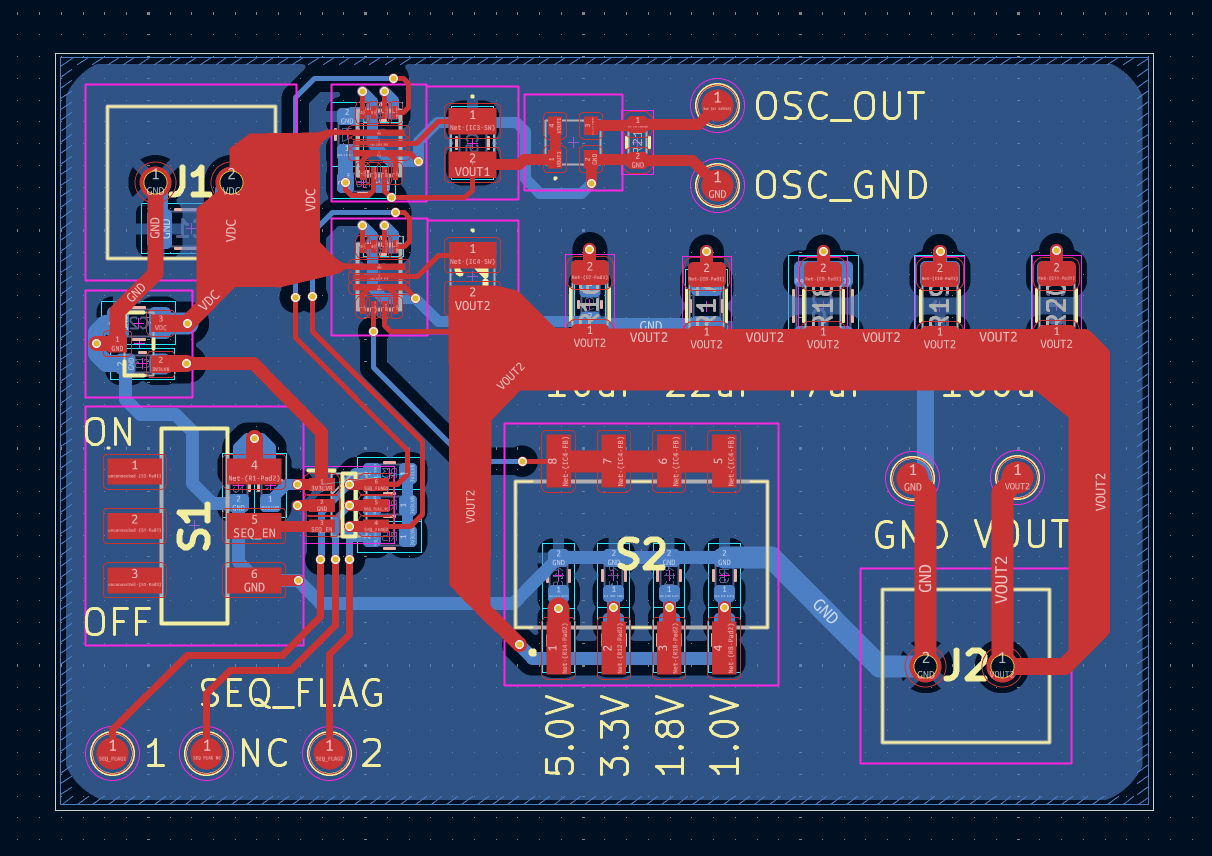
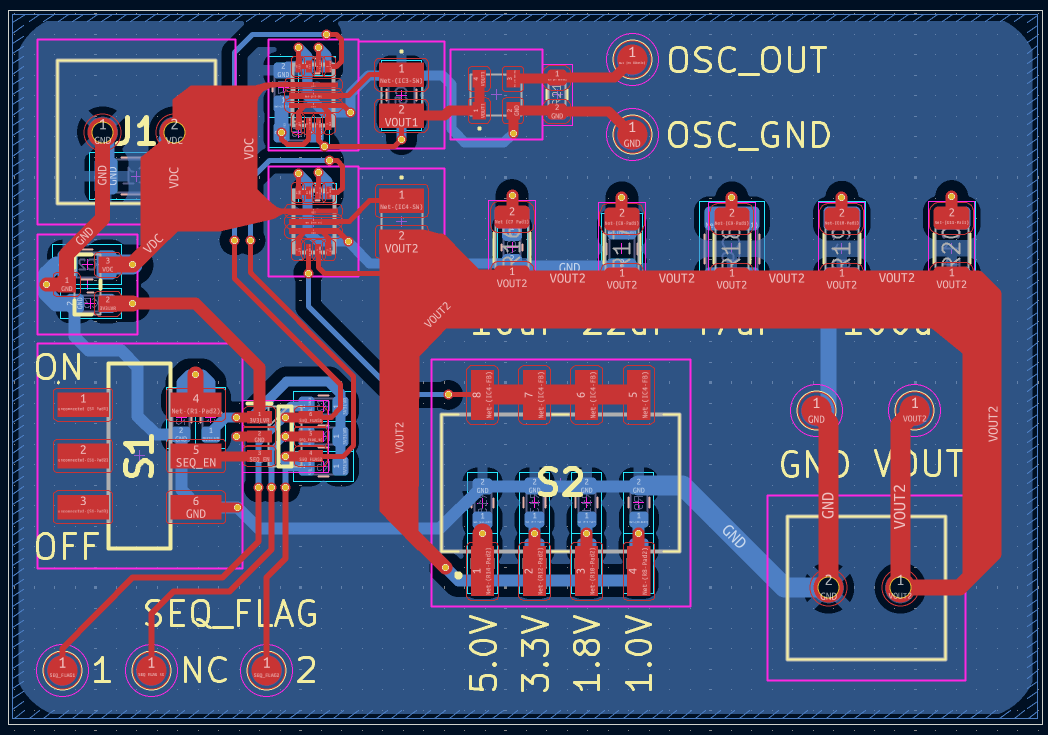
Update PCB design and cost information

diff --git a/README.md b/README.md
@@ -10,29 +10,45 @@ This simple project is for testing power rails and external oscillator to use th
     + different output voltages(1.0~5.0V) of buck converter
     + different load(resistive, ~1.5W consume)
 
-## 2. Architecture Diagram
-### 2.1 Module Diagram
+## 2. Directores
+|Directory|Description|
+|---|---|
+|calculation|files for calculation|
+|datasheet|datasheets of components|
+|diagrams|diagrams images|
+|eda_model|EDA model files for KiCAD|
+|kicad_proj|KiCAD project directory|
+|pcb|PCB images and gerber file|
+|readme_img|image for readme file|
+|schematic|schematic jpg and pdf file|
+
+## 3. Architecture Diagram
+### 3.1 Module Diagram
 <img src="./readme_img/001_module_diagram.PNG" width="70%" style="margin-left: auto; margin-right: auto; display: block;"/>
 
-### 2.2 Block Diagram
+### 3.2 Block Diagram
 <img src="./readme_img/002_block_diagram.PNG" width="70%" style="margin-left: auto; margin-right: auto; display: block;"/>
 
-### 2.3 Block Ports
+### 3.3 Ports Diagram
 <img src="./readme_img/003_block_ports.PNG" width="70%" style="margin-left: auto; margin-right: auto; display: block;"/>
 
-## 3. Circuit Schematic
-Footprints of resistors R16~20 will be used as solder jumper. Therefore, there is no actual component needed.
+## 4. Circuit Schematic
+Footprints of resistors R16~20 will be used as solder jumper.
 
 <img src="./schematic/schematic.jpg" width="90%"/>
 
+</br>
 Date of basis for price calculation : 2025.10.21. </br>
-Refer to <a href="./component_list.xlsx">component_list.xlsx</a> for details.
+Refer to <a href="./component_list.xlsx">component_list.xlsx</a> for details. </br>
+* Exclude PCB(USD$20.84/5pcs) and resistive load(USD$8.40).
 
 <img src="./readme_img/005_price_overview.png" width="40%"/>
 
-## 4. PCB Design
+</br>
+<b>Total: USD$27.203/pcs</b> (incldue PCB and resistive load)
+
+## 5. PCB Design
 Manufacturer : JLC PCB </br>
-Gerber File : ./kicad_proj/output
-              (./kicad_proj/pcb_output.zip)
+Gerber File : ./pcb/pcb_gerber.zip (zip file of ./kicad_proj/output)
 
 <img src="./readme_img/006_pcb.png" width="90%"/>
